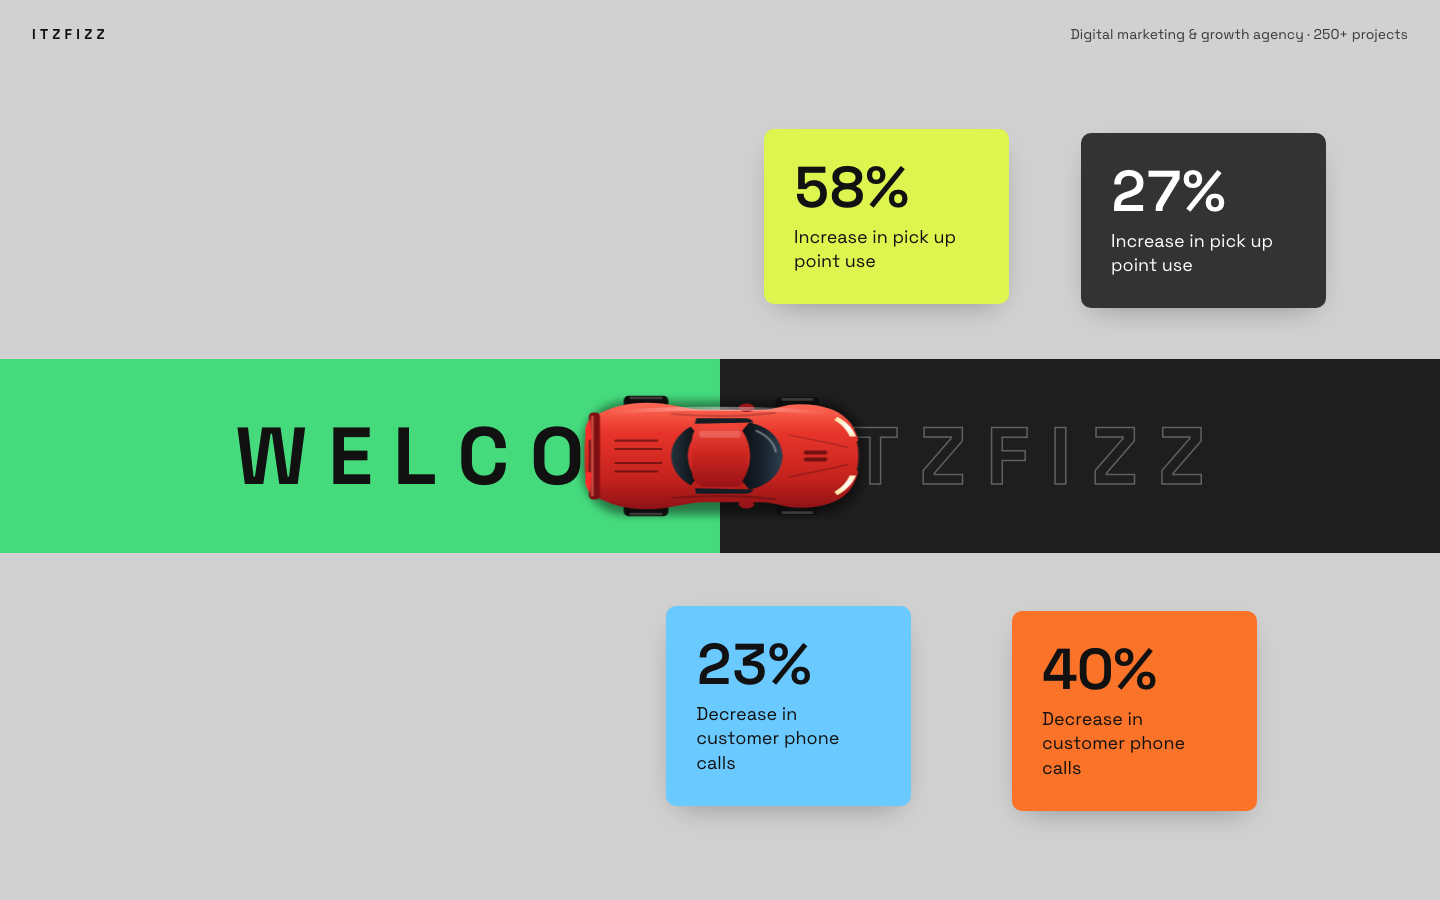
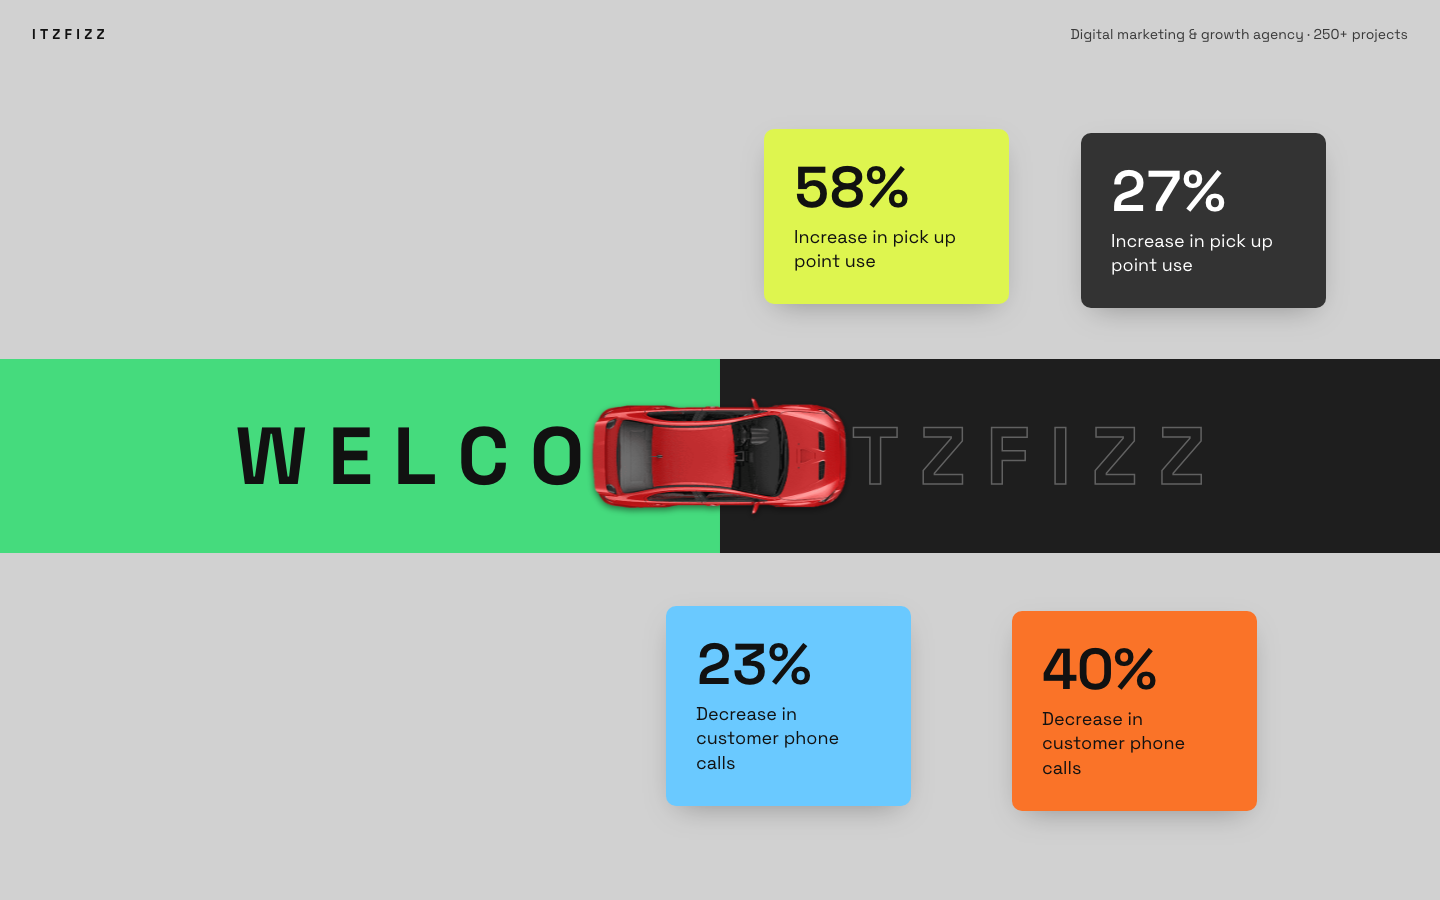
Use photo-realistic top-down car
Replace the SVG illustration with a top-view car photo. The source PNG had
a baked-in checkerboard, so the background was flood-filled away, the car
rotated to face right, and a soft shadow baked in (no per-frame CSS
filter). Refresh README screenshots and the Open Graph image.

Changed region(s): [[0.375, 0.4356, 0.5938, 0.5911], [0.5, 0.8089, 0.5625, 0.84]]

diff --git a/components/HeroSection.tsx b/components/HeroSection.tsx
@@ -246,13 +246,13 @@ export default function HeroSection() {
           >
             <div data-car-body data-intro className="size-full">
               <Image
-                src={assetPath("/car.svg")}
-                alt="Top view of a red sports car driving along the road"
-                width={440}
-                height={200}
+                src={assetPath("/car.png")}
+                alt="Top view of a red car driving along the road"
+                width={739}
+                height={336}
                 preload
                 draggable={false}
-                className="size-full select-none"
+                className="size-full object-contain select-none"
               />
             </div>
           </div>

diff --git a/README.md b/README.md
@@ -80,7 +80,7 @@ lib/
   gsap.ts                 registers GSAP plugins once
   stats.ts                stat card data
   assetPath.ts            adds the GitHub Pages basePath to /public assets
-public/car.svg            hand-built top-down car illustration
+public/car.png            top-down car image (background removed, rotated, shadow baked in)
 .github/workflows/deploy.yml
 ```
 
@@ -107,6 +107,6 @@ Three settings make the static export work on GitHub Pages:
 
 ## Credits
 
-Inspired by the [car scroll animation reference](https://paraschaturvedi.github.io/car-scroll-animation) provided with the assignment. Car illustration drawn from scratch as an SVG.
+Inspired by the [car scroll animation reference](https://paraschaturvedi.github.io/car-scroll-animation) provided with the assignment. The top-down car is a free PNG. Its baked-in checkerboard background was removed, it was rotated to face the direction of travel, and a soft shadow was baked in so the moving car needs no CSS filter.
 
 Built by **Iraa Garg** ([github.com/iraagarg](https://github.com/iraagarg)).
